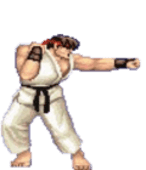
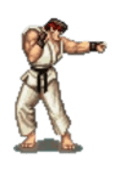
added walking animation / punch animation needs to be fixed

diff --git a/src/Player.java b/src/Player.java
@@ -3,9 +3,10 @@ import java.awt.*;
 import java.awt.image.BufferedImage;
 import java.io.File;
 import java.io.IOException;
+import java.util.ArrayList;
 
 public class Player {
-    private final double MOVE_AMT = 0.5;
+    private final double MOVE_AMT = 0.2;
     private BufferedImage right;
     private BufferedImage left;
     private BufferedImage punchrightMove;
@@ -16,25 +17,47 @@ public class Player {
     private int score;
     private BufferedImage currentImage;
 
-    public Player(String leftImg, String rightImg, String punchrightImg, String punchleftImg) {
+    private boolean isPunching;
+
+    private Animation run;
+    public Player(String rightImg, String punchrightImg, String punchleftImg) {
         facingRight = true;
         xCoord = 50; // starting position is (50, 435), right on top of ground
         yCoord = 350;
         score = 0;
         try {
-            left = ImageIO.read(new File(leftImg));
+//            left = ImageIO.read(new File(leftImg));
             right = ImageIO.read(new File(rightImg));
-            punchrightMove = ImageIO.read(new File(punchrightImg));
             punchleftMove = ImageIO.read(new File(punchleftImg));
+            punchrightMove = ImageIO.read(new File(punchrightImg));
 
         } catch (IOException e) {
             System.out.println(e.getMessage());
         }
         currentImage = right;
+
+        ArrayList<BufferedImage> run_animation = new ArrayList<>();
+        for (int i = 1; i <= 5; i++) {
+            String filename = "src/RyuAni/run_" + i + ".png";
+            try {
+                run_animation.add(ImageIO.read(new File(filename)));
+            }
+            catch (IOException e) {
+                System.out.println(e.getMessage());
+            }
+        }
+        run = new Animation(run_animation,200);
+
+
+        isPunching = false;
     }
 
     public int getxCoord() {
-        return (int) xCoord;
+        if (facingRight) {
+            return (int) xCoord;
+        } else {
+            return (int) (xCoord + (getPlayerImage().getWidth()));
+        }
     }
 
     public int getyCoord() {
@@ -47,12 +70,16 @@ public class Player {
 
     public void faceRight() {
         facingRight = true;
-        currentImage = right;
+//        currentImage = right;
     }
 
     public void faceLeft() {
         facingRight = false;
-        currentImage = left;
+//        currentImage = left;
+    }
+
+    public boolean ifFacingRight(){
+        return facingRight;
     }
 
     public void moveRight() {
@@ -67,40 +94,76 @@ public class Player {
         }
     }
 
-//    public void moveUp() {
-//        if (yCoord - MOVE_AMT >= 0) {
-//            yCoord -= MOVE_AMT;
-//        }
-//    }
+    public void turn() {
+        if (facingRight) {
+            faceLeft();
+        } else {
+            faceRight();
+        }
+    }
 
-//    public void moveDown() {
-//        if (yCoord + MOVE_AMT <= 435) {
-//            yCoord += MOVE_AMT;
-//        }
-//    }
+    public void moveUp() {
+        if (yCoord - MOVE_AMT >= 0) {
+            yCoord -= 10;
+        }
+    }
+
+    public void moveDown() {
+        if (yCoord + MOVE_AMT <= 435) {
+            yCoord += 10;
+        }
+    }
 
     public void collectCoin() {
         score++;
     }
 
-    public BufferedImage getPlayerImage() {
-        return currentImage;
-    }
 
     public void punch() {
-        if(facingRight){
-            currentImage = punchrightMove;
-        }else{
-            currentImage = punchleftMove;
-        }
-
+        isPunching = true;
     }
 
     public void resetPunch() {
-        currentImage = facingRight ? right : left;
+        isPunching = false;
     }
 
+    public boolean isPunching(){
+        return isPunching;
+    }
+
+
+    public BufferedImage getPlayerImage() {
+        if (isPunching) {
+            if (!facingRight) {
+                return punchleftMove;
+            } else{
+                return punchrightMove;
+            }
+        } else {
+            return run.getActiveFrame();
+        }
+    }
+
+    //These functions are newly added to let the player turn left and right
+    //These functions when combined with the updated getxCoord()
+    //Allow the player to turn without needing separate images for left and right
+    public int getHeight() {
+        return getPlayerImage().getHeight();
+    }
+
+//    public void resetPunch() {
+//        currentImage = facingRight ? right : left;
+//    }
+
     // we use a "bounding Rectangle" for detecting collision
+
+    public int getWidth() {
+        if (facingRight) {
+            return getPlayerImage().getWidth();
+        } else {
+            return getPlayerImage().getWidth() * -1;
+        }
+    }
     public Rectangle playerRect() {
         int imageHeight = getPlayerImage().getHeight();
         int imageWidth = getPlayerImage().getWidth();

diff --git a/src/GraphicsPanel.java b/src/GraphicsPanel.java
@@ -15,13 +15,14 @@ public class GraphicsPanel extends JPanel implements KeyListener, MouseListener 
     private Timer punchTimer;
 
 
+
     public GraphicsPanel() {
         try {
             background = ImageIO.read(new File("src/fightbackground.png"));
         } catch (IOException e) {
             System.out.println(e.getMessage());
         }
-        player = new Player("src/ryuLeft.png", "src/ryuRight.png", "src/ryuPunchRight.png", "src/ryuPunchLeft.png");
+        player = new Player("src/ryuRight.png", "src/ryuPunchRight.png", "src/ryuPunchLeft.png");
         coins = new ArrayList<>();
         pressedKeys = new boolean[128]; // 128 keys on keyboard, max keycode is 127
         addKeyListener(this);
@@ -38,13 +39,14 @@ public class GraphicsPanel extends JPanel implements KeyListener, MouseListener 
             }
         });
         punchTimer.setRepeats(false);
+
     }
 
     @Override
     public void paintComponent(Graphics g) {
         super.paintComponent(g);  // just do this
         g.drawImage(background, 0, 0, null);  // the order that things get "painted" matter; we put background down first
-        g.drawImage(player.getPlayerImage(), player.getxCoord(), player.getyCoord(), null);
+        g.drawImage(player.getPlayerImage(), player.getxCoord(), player.getyCoord(), player.getWidth(), player.getHeight(), null);
 
         // this loop does two things:  it draws each Coin that gets placed with mouse clicks,
         // and it also checks if the player has "intersected" (collided with) the Coin, and if so,
@@ -64,8 +66,8 @@ public class GraphicsPanel extends JPanel implements KeyListener, MouseListener 
         g.drawString("Score: " + player.getScore(), 20, 40);
 
         if (pressedKeys[69]) { // E key
-            player.punch();
-            if (!punchTimer.isRunning()) {
+            if (!player.isPunching()) {
+                player.punch();
                 punchTimer.start();
             }
         } else {
@@ -120,10 +122,18 @@ public class GraphicsPanel extends JPanel implements KeyListener, MouseListener 
             Point mouseClickLocation = e.getPoint();
             Coin coin = new Coin(mouseClickLocation.x, mouseClickLocation.y);
             coins.add(coin);
+
+        }else {
+            Point mouseClickLocation = e.getPoint();
+            if (player.playerRect().contains(mouseClickLocation)) {
+                player.turn();
+            }
         }
     }
 
     public void mouseEntered(MouseEvent e) { } // unimplemented
 
     public void mouseExited(MouseEvent e) { } // unimplemented
+
+
 }

diff --git a/src/Animation.java b/src/Animation.java
@@ -1,0 +1,40 @@
+import javax.swing.*;
+import java.awt.event.ActionEvent;
+import java.awt.event.ActionListener;
+import java.awt.image.BufferedImage;
+import java.util.ArrayList;
+
+public class Animation implements ActionListener {
+    private ArrayList<BufferedImage> frames;
+    private Timer timer;
+    private int currentFrame;
+
+    public Animation(ArrayList<BufferedImage> frames, int delay) {
+        this.frames = frames;
+        currentFrame = 0;
+        timer = new Timer(delay, this);
+        timer.start();
+    }
+
+    public int getCurrentFrame() {
+        return currentFrame;
+    }
+
+    public ArrayList<BufferedImage> getFrames() {
+        return frames;
+    }
+
+    public BufferedImage getActiveFrame() {
+        return frames.get(currentFrame);
+    }
+
+    public void actionPerformed(ActionEvent e) {
+        if (e.getSource() instanceof Timer) {
+            //This advances the animation to the next frame
+            //It also uses modulus to reset the frame to the beginning after the last frame
+            //In other words, this allows our animation to loop
+            currentFrame = (currentFrame + 1) % frames.size();
+        }
+    }
+}
+

diff --git a/src/MainFrame.java b/src/MainFrame.java
@@ -7,7 +7,7 @@ public class MainFrame implements Runnable {
     public MainFrame() {
         JFrame frame = new JFrame("Super Mario Game");
         frame.setDefaultCloseOperation(JFrame.EXIT_ON_CLOSE);
-        frame.setSize(960, 580); // 540 height of image + 40 for window menu bar
+        frame.setSize(960, 575); // 540 height of image + 40 for window menu bar
         frame.setLocationRelativeTo(null); // auto-centers frame in screen
 
         // create and add panel
